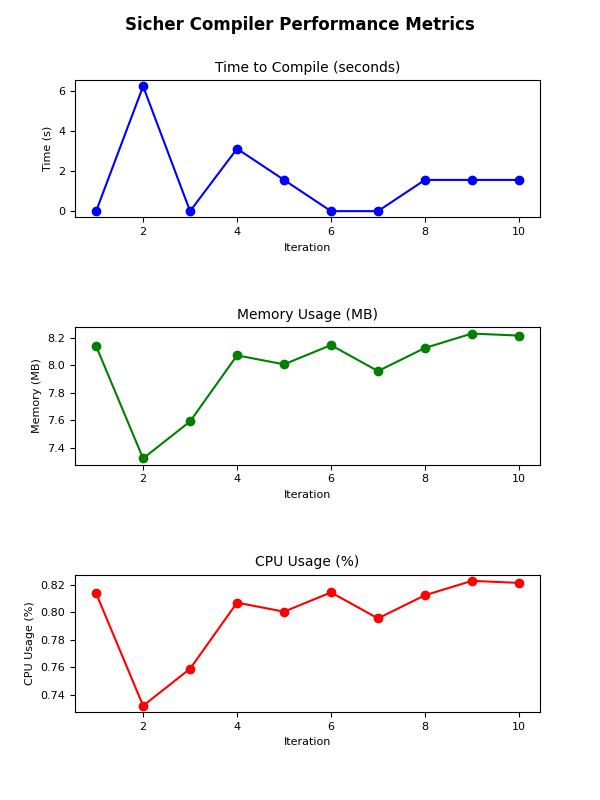
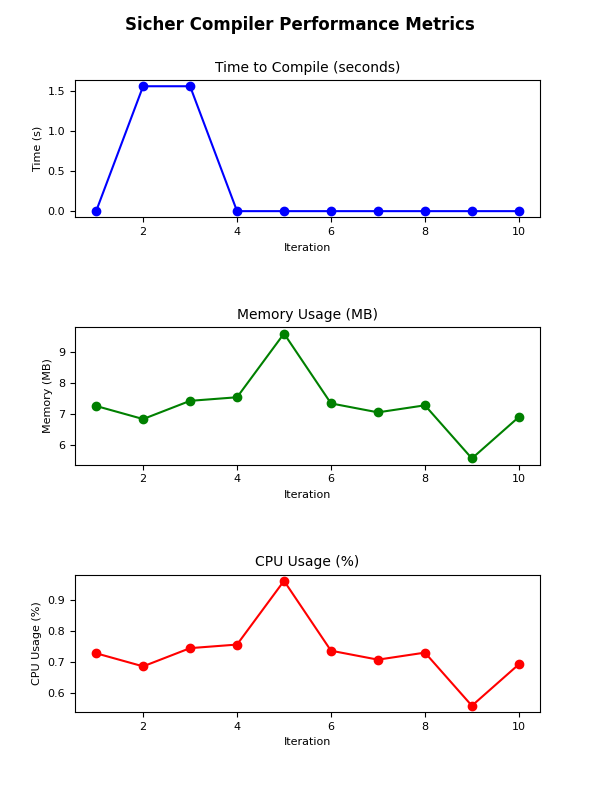
added aittional checking

diff --git a/src/static/style.css b/src/static/style.css
@@ -91,3 +91,67 @@ pre {
 .compile-new:hover {
     text-decoration: underline;
 }
+
+/* Form container styling */
+.form-container {
+    display: flex; /* Align items horizontally */
+    align-items: center; /* Vertically center the items */
+    gap: 10px; /* Add spacing between the elements */
+}
+
+/* Custom file input styling */
+.custom-file-input {
+    display: inline-block;
+    background-color: #FFA500; /* Orange background */
+    color: #2D2B55; /* Purple text */
+    padding: 10px 20px;
+    font-size: 1em;
+    font-weight: bold;
+    border: none;
+    border-radius: 5px;
+    cursor: pointer;
+    text-align: center;
+}
+
+.custom-file-input:hover {
+    background-color: #C97A00; /* Darker orange on hover */
+}
+
+.custom-file-input input[type="file"] {
+    display: none; /* Hide the default file input */
+}
+
+/* Upload button styling */
+.upload-button {
+    background-color: #FAD000; /* Purple background */
+    color: #2D2B55; /* Yellow text */
+    padding: 10px 20px;
+    font-size: 1em;
+    font-weight: bold;
+    border: none;
+    border-radius: 5px;
+    cursor: pointer;
+}
+
+.upload-button:hover {
+    background-color: #1E1E3F;
+}
+
+.alert {
+    padding: 10px;
+    margin-bottom: 15px;
+    border: 1px solid transparent;
+    border-radius: 4px;
+}
+
+.alert-error {
+    color: #721c24;
+    background-color: #f8d7da;
+    border-color: #f5c6cb;
+}
+
+.alert-success {
+    color: #155724;
+    background-color: #d4edda;
+    border-color: #c3e6cb;
+}

diff --git a/src/templates/index.html b/src/templates/index.html
@@ -1,11 +1,24 @@
-<!-- filepath: /Users/sandymacdonald/Documents/Clones/SicherC/src/templates/index.html -->
 {% extends "layout.html" %}
 
 {% block content %}
 <h1>Sicher Compiler Web Interface</h1>
-<form action="/upload" method="post" enctype="multipart/form-data">
-    <label for="file">Upload a C Source File:</label><br>
-    <input type="file" name="file" id="file" accept=".c"><br><br>
-    <button type="submit">Upload and Compile</button>
+<p>Complements the Sicher C Compiler GUI and CLI with a Flask hosted web-interface, allowing for the saving and capturing of source file compilation module outputs and performance plots.</p>
+
+{% with messages = get_flashed_messages(with_categories=true) %}
+    {% if messages %}
+        <div class="alerts">
+            {% for category, message in messages %}
+                <div class="alert alert-{{ category }}">{{ message }}</div>
+            {% endfor %}
+        </div>
+    {% endif %}
+{% endwith %}
+
+<form action="/upload" method="post" enctype="multipart/form-data" class="form-container">
+    <label for="file" class="custom-file-input">
+        Choose a C Source File
+        <input type="file" name="file" id="file">
+    </label>
+    <button type="submit" class="upload-button">Upload and Compile</button>
 </form>
 {% endblock %}

diff --git a/src/templates/layout.html b/src/templates/layout.html
@@ -1,17 +1,14 @@
-<!-- filepath: /Users/sandymacdonald/Documents/Clones/SicherC/src/templates/layout.html -->
 <!DOCTYPE html>
 <html lang="en">
 <head>
     <meta charset="UTF-8">
     <meta name="viewport" content="width=device-width, initial-scale=1.0">
     <title>{% block title %}Sicher C Compiler{% endblock %}</title>
-    <!-- Link to the CSS file in the static directory -->
     <link rel="stylesheet" href="{{ url_for('static', filename='style.css') }}">
 </head>
 <body>
     <div class="sidebar">
         <h2>Sicher Compilation History</h2>
-        <!-- Add the "Compile New" link at the top -->
         <ul>
             <li>
                 <a href="/" class="compile-new">Compile New</a>

diff --git a/src/templates/history.html b/src/templates/history.html
@@ -1,4 +1,3 @@
-<!-- filepath: /Users/sandymacdonald/Documents/Clones/SicherC/src/templates/history.html -->
 {% extends "layout.html" %}
 
 {% block content %}

diff --git a/src/templates/results.html b/src/templates/results.html
@@ -1,4 +1,3 @@
-<!-- filepath: /Users/sandymacdonald/Documents/Clones/SicherC/src/templates/results.html -->
 {% extends "layout.html" %}
 
 {% block content %}

diff --git a/src/web_interface.py b/src/web_interface.py
@@ -1,10 +1,9 @@
-from flask import Flask, request, render_template, redirect, url_for
+from flask import Flask, request, render_template, redirect, url_for, flash
 import os
 from modules.tokeniser import tokenise
 from modules.parser import parse_tokens
 from modules.analyser import create_ast_from_tokens
 from modules.codegenerator import CodeGenerator
-from modules.visualiser import main as visualiser
 import time
 import psutil
 
@@ -12,6 +11,7 @@ app = Flask(__name__, template_folder='templates/')
 UPLOAD_FOLDER = 'uploads'
 os.makedirs(UPLOAD_FOLDER, exist_ok=True)
 app.config['UPLOAD_FOLDER'] = UPLOAD_FOLDER
+app.secret_key = 'your_secret_key'
 
 compilation_history = {} 
 
@@ -26,18 +26,31 @@ def index():
 @app.route('/upload', methods=['POST'])
 def upload_file():
     if 'file' not in request.files:
+        flash('No file part in the request.', 'error')
         return redirect(url_for('index'))
     
     file = request.files['file']
     if file.filename == '':
+        flash('No file selected. Please choose a file to upload.', 'error')
         return redirect(url_for('index'))
     
-    if file and file.filename.endswith('.c'):
-        filepath = os.path.join(app.config['UPLOAD_FOLDER'], file.filename)
+    if not file.filename.endswith('.c'):
+        flash('Invalid file type. Please upload a C source file.', 'error')
+        return redirect(url_for('index'))
+    
+    filepath = os.path.join(app.config['UPLOAD_FOLDER'], file.filename)
+    try:
         file.save(filepath)
-        return redirect(url_for('compile_file', filename=file.filename))
-    else:
-        return "Invalid file type. Please upload a C source file."
+        # Check if the file is empty or unreadable
+        if os.stat(filepath).st_size == 0:
+            flash('The uploaded file is empty. Please upload a valid C source file.', 'error')
+            os.remove(filepath)  # Remove the empty file
+            return redirect(url_for('index'))
+    except Exception as e:
+        flash(f'Error saving the file: {str(e)}', 'error')
+        return redirect(url_for('index'))
+    
+    return redirect(url_for('compile_file', filename=file.filename))
 
 @app.route('/history')
 def history():
@@ -54,8 +67,7 @@ def view_history(filename):
 def compile_file(filename):
     filepath = os.path.join(app.config['UPLOAD_FOLDER'], filename)
     results = {}
-    debug = True  # Assume debug is always enabled by default
-
+    debug = True 
     try:
         # Tokeniser
         with open(filepath, 'r') as file:
@@ -90,7 +102,7 @@ def compile_file(filename):
         cpu_usages = []
 
         for _ in range(10):
-            start_time = time.perf_counter()  # High-precision timer
+            start_time = time.perf_counter() 
             process = psutil.Process()
             initial_memory = process.memory_info().rss
             initial_cpu_times = process.cpu_times()
@@ -109,25 +121,22 @@ def compile_file(filename):
             codegen.generate_code()
 
             # Measure end time and resource usage
-            end_time = time.perf_counter()  # High-precision timer
+            end_time = time.perf_counter() 
             final_memory = process.memory_info().rss
             final_cpu_times = process.cpu_times()
 
             # Calculate metrics
             compile_times.append(end_time - start_time)
-            memory_usages.append((final_memory - initial_memory) / (1024 * 1024))  # Convert to MB
+            memory_usages.append((final_memory - initial_memory) / (1024 * 1024))
             cpu_time_used = (
                 (final_cpu_times.user - initial_cpu_times.user) +
                 (final_cpu_times.system - initial_cpu_times.system)
             )
-            cpu_usages.append((cpu_time_used / (end_time - start_time)))  # Convert to percentage
+            cpu_usages.append((cpu_time_used / (end_time - start_time)))
 
-            # Generate performance plots
             from modules.performance_plotter import generate_performance_plots
             fig = generate_performance_plots(compile_times, memory_usages, cpu_usages)
 
-            # Save the plots as an image
-            # Save the plots as an image
             plot_path = os.path.join('src', 'static', 'performance_plots.png')
             fig.savefig(plot_path)
             results['performance_plot'] = plot_path
@@ -135,7 +144,6 @@ def compile_file(filename):
     except Exception as e:
         results['error'] = str(e)
 
-    # Save results to history
     compilation_history[filename] = results
 
     return render_template('results.html', filename=filename, results=results)
